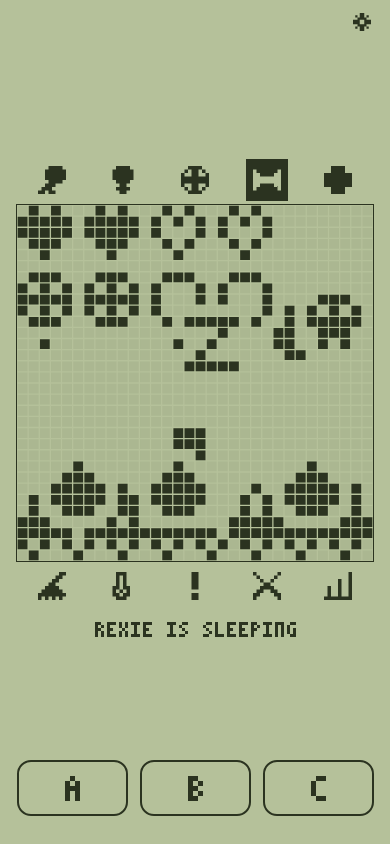
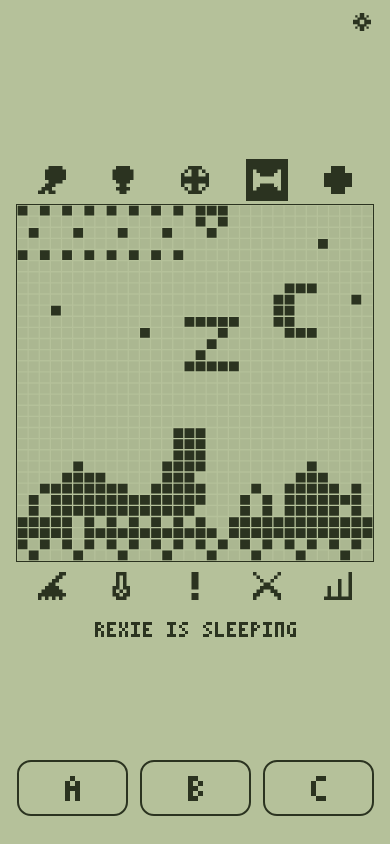
WIP: Expo living scene captures and fixes
Claude-Session: https://claude.ai/code/session_018fbADevjekvnXJm6DE1cKa

diff --git a/expo-prototype/src/ui/sceneDraw.ts b/expo-prototype/src/ui/sceneDraw.ts
@@ -32,6 +32,11 @@ export const ART: Record<string, Rows> = {
   tuft0: ['.X.', 'X.X', 'X.X'],
   tuft1: ['..X', '.XX', 'X.X'],
   pebble: ['.X.', 'XXX'],
+  heartS: ['X.X', 'XXX', '.X.'],
+  heartSE: ['X.X', '...', '.X.'],
+  smileS: ['X.X', '...', 'XXX'],
+  smileSE: ['X.X', '...', '...'],
+  skullS: ['XXX', 'X.X', '.X.'],
   bubble: ['.XXXXXXX.', 'X.......X', 'X.......X', 'X.......X', 'X.......X', 'X.......X', '.XXXXXXX.'],
 };
 
@@ -102,6 +107,11 @@ function drawPet(b: Buf, s: Scene, pet: Pet) {
 }
 
 // ---------- sky ----------
+/** Like b.rows but only paints columns >= minX (keeps clouds out from behind the HUD). */
+function stampClip(b: Buf, rows: Rows, x: number, y: number, minX: number) {
+  for (let j = 0; j < rows.length; j++) for (let i = 0; i < rows[j].length; i++) if (rows[j][i] === 'X' && x + i >= minX) b.set(x + i, y + j);
+}
+
 function drawSky(b: Buf, s: Scene) {
   const phase = phaseOf(s.hour);
   const hf = s.hour + s.minute / 60;
@@ -109,30 +119,30 @@ function drawSky(b: Buf, s: Scene) {
   const amb = s.still ? 0 : s.nowMs;
   if (phase !== 'night') {
     const p = Math.min(1, Math.max(0, (hf - 5) / 16));
-    const cx = Math.round(3 + p * 26), cy = 13 - Math.round(6 * Math.sin(Math.PI * p));
+    const cx = Math.round(3 + p * 26), cy = Math.max(cx <= 20 ? 10 : 4, 12 - Math.round(9 * Math.sin(Math.PI * p)));
     b.rows(ART.sunDisc, cx - 2, cy - 2);
     if (Math.floor(amb / FRAME_MS) % 2 === 0) { b.set(cx - 4, cy); b.set(cx + 4, cy); b.set(cx, cy - 4); b.set(cx, cy + 4); }
     else { b.set(cx - 3, cy - 3); b.set(cx + 3, cy - 3); b.set(cx - 3, cy + 3); b.set(cx + 3, cy + 3); }
   } else {
     const q = Math.min(1, ((hf - 21 + 24) % 24) / 8);
-    const cx = Math.round(28 - q * 24), cy = 13 - Math.round(6 * Math.sin(Math.PI * q));
+    const cx = Math.round(28 - q * 24), cy = Math.max(cx <= 20 ? 10 : 4, 12 - Math.round(9 * Math.sin(Math.PI * q)));
     b.rows(ART.moon, cx - 2, cy - 2);
-    const stars: [number, number][] = [[2, 12], [8, 11], [14, 12], [20, 11], [26, 12], [30, 11]];
+    const stars: [number, number][] = [[18, 2], [27, 3], [3, 9], [11, 11], [21, 10], [30, 8]];
     stars.forEach(([x, y], i) => { if ((Math.floor(tickN / 5) + i * 2) % 5 !== 0) b.set(x, y); });
   }
-  if (phase === 'dawn' || phase === 'dusk') for (let x = 0; x < 32; x += 2) b.set(x + (phase === 'dawn' ? 0 : 1), 12);
+  if (phase === 'dawn' || phase === 'dusk') for (let x = 0; x < 32; x += 4) { b.set(x + (phase === 'dawn' ? 0 : 2), 12); b.set(x + (phase === 'dawn' ? 2 : 0), 11); }
   // clouds drift one cell every 10 s
   const drift = Math.floor(amb / 10000);
   const o = s.seed % 48;
   const wide = (v: number) => ((v % 48) + 48) % 48 - 12;
   if (s.weather === 'clear') {
-    if (phase !== 'night') b.rows(ART.cloudS, wide(o + 30 + drift), 11);
+    if (phase !== 'night') stamp(b, ART.cloudS, wide(o + 30 + drift), 10, true);
   } else {
-    b.rows(ART.cloudL, wide(o + drift), 10);
-    b.rows(ART.cloudL, wide(o + 24 + drift), 3);
+    stamp(b, ART.cloudL, wide(o + drift), 9, true);
+    stampClip(b, ART.cloudL, wide(o + 24 + drift), 2, 17);
   }
   if (s.weather === 'rain') {
-    for (let i = 0; i < 12; i++) {
+    for (let i = 0; i < 9; i++) {
       const x = (i * 7 + (s.seed % 5)) % 32;
       const y = (tickN * 2 + i * 5) % 26;
       b.set(x, y); b.set(x, y + 1);
@@ -153,15 +163,16 @@ function drawDim(b: Buf) {
   for (let y = 0; y < 28; y++) for (let x = 0; x < 32; x++) if ((x + y) % 2 === 0) b.set(x, y);
 }
 
+/** HUD: 3x3 mini hearts (hunger) and smiles (happy) in the top-left corner; status glyphs just right of them. */
 function drawHud(b: Buf, s: Scene, pet: Pet) {
   for (let i = 0; i < 4; i++) {
-    stamp(b, i < pet.hunger ? GLYPHS.heartFull : GLYPHS.heartEmpty, i * 6, 0, true);
-    stamp(b, i < pet.happy ? GLYPHS.smileFull : GLYPHS.smileEmpty, i * 6, 6, true);
+    stamp(b, ART[i < pet.hunger ? 'heartS' : 'heartSE'], i * 4, 0, true);
+    stamp(b, ART[i < pet.happy ? 'smileS' : 'smileSE'], i * 4, 4, true);
   }
   const flip = s.still ? 0 : Math.floor(s.nowMs / FRAME_MS) % 2;
-  const tempG = pet.temp >= 2 ? GLYPHS.drop : pet.temp <= -2 ? GLYPHS.flake : null;
-  if (pet.sick && (!tempG || flip === 0)) stamp(b, GLYPHS.skull, 26, 8, true);
-  else if (tempG) stamp(b, tempG, 26, 8, true);
+  const tempG = pet.temp >= 2 ? ART.dropS : pet.temp <= -2 ? ART.flakeS : null;
+  if (pet.sick) stamp(b, ART.skullS, 16, 0, true);
+  if (tempG && (!pet.sick || flip === 0)) stamp(b, tempG, 16, 4, true);
 }
 
 function popArt(g: Pop['g']): Rows {
@@ -209,18 +220,21 @@ function bubbleIcon(pet: Pet): Rows | null {
   }
 }
 
+export const bubbleX = (s: Scene) => Math.max(19, Math.min(22, Math.round(s.x) + 4));
+
 function drawBubble(b: Buf, s: Scene, pet: Pet) {
   const show = pet.call !== null && (!pet.asleep || pet.call === 'light');
   if (!show) return;
   const on = s.still || Math.floor(s.nowMs / 300) % 4 !== 3;
+  const bx = bubbleX(s);
   if (on) {
     const icon = bubbleIcon(pet);
-    b.rect(23, 0, 9, 7, 0);
-    b.rows(ART.bubble, 23, 0);
-    b.set(25, 7); b.set(24, 8);
-    if (icon) b.rows(icon, 25, 1);
+    b.rect(bx, 1, 9, 7, 0);
+    b.rows(ART.bubble, bx, 1);
+    b.set(bx + 2, 8); b.set(bx + 1, 9);
+    if (icon) b.rows(icon, bx + 2, 2);
   } else if (needsAttention(pet)) {
-    stamp(b, GLYPHS.alert, 27, 1, true);
+    stamp(b, GLYPHS.alert, bx + 2, 2, true);
   }
 }
 
@@ -255,7 +269,7 @@ export function drawScene(b: Buf, s: Scene, pet: Pet) {
   }
   // poops sit on the ground in front of the pet
   const jig = s.still ? 0 : Math.floor(s.nowMs / FRAME_MS);
-  for (let i = 0; i < 3; i++) if (s.poopMask & (1 << i)) stamp(b, GLYPHS.poop, POOP_X[i] + ((jig + i) % 2), 23, true);
+  for (let i = 0; i < 3; i++) if (s.poopMask & (1 << i)) b.rows(GLYPHS.poop, POOP_X[i] + ((jig + i) % 2), 23);
   for (const p of s.props) drawProp(b, p);
   // state effects around the head
   const t = s.t;
